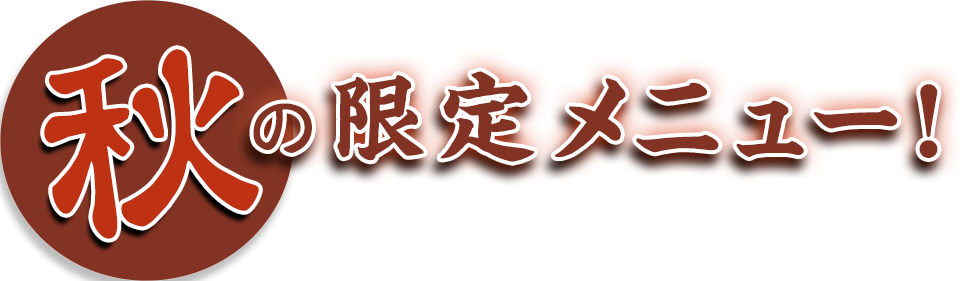
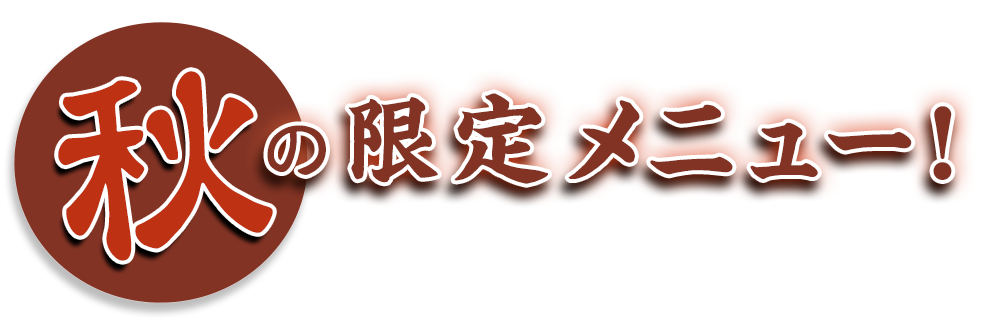
update

Changed region(s): [[0.0, 0.0, 0.9887, 1.0], [0.9269, 0.484, 0.9887, 0.6263]]

diff --git a/css/style.css b/css/style.css
@@ -24,15 +24,15 @@ body {
 .title {
     text-align: center;
     pointer-events: none;
-    padding-top: 40px;
-    padding-left: 20px;
+    padding-top: 15px;
+    padding-left: 10px;
     padding-right: 20px;
 }
 
 .banner {
     display: flex;
     justify-content: space-evenly;
-    margin: 75px 40px 0px 40px;
+    margin: 50px 40px 0px 40px;
 }
 
 .menu-special {
@@ -207,7 +207,7 @@ body {
 }
 
 .kupon {
-    margin-top: 85px;
+    margin-top: 70px;
     margin-left: 25px;
     width: 855px;
     height: 140px;
